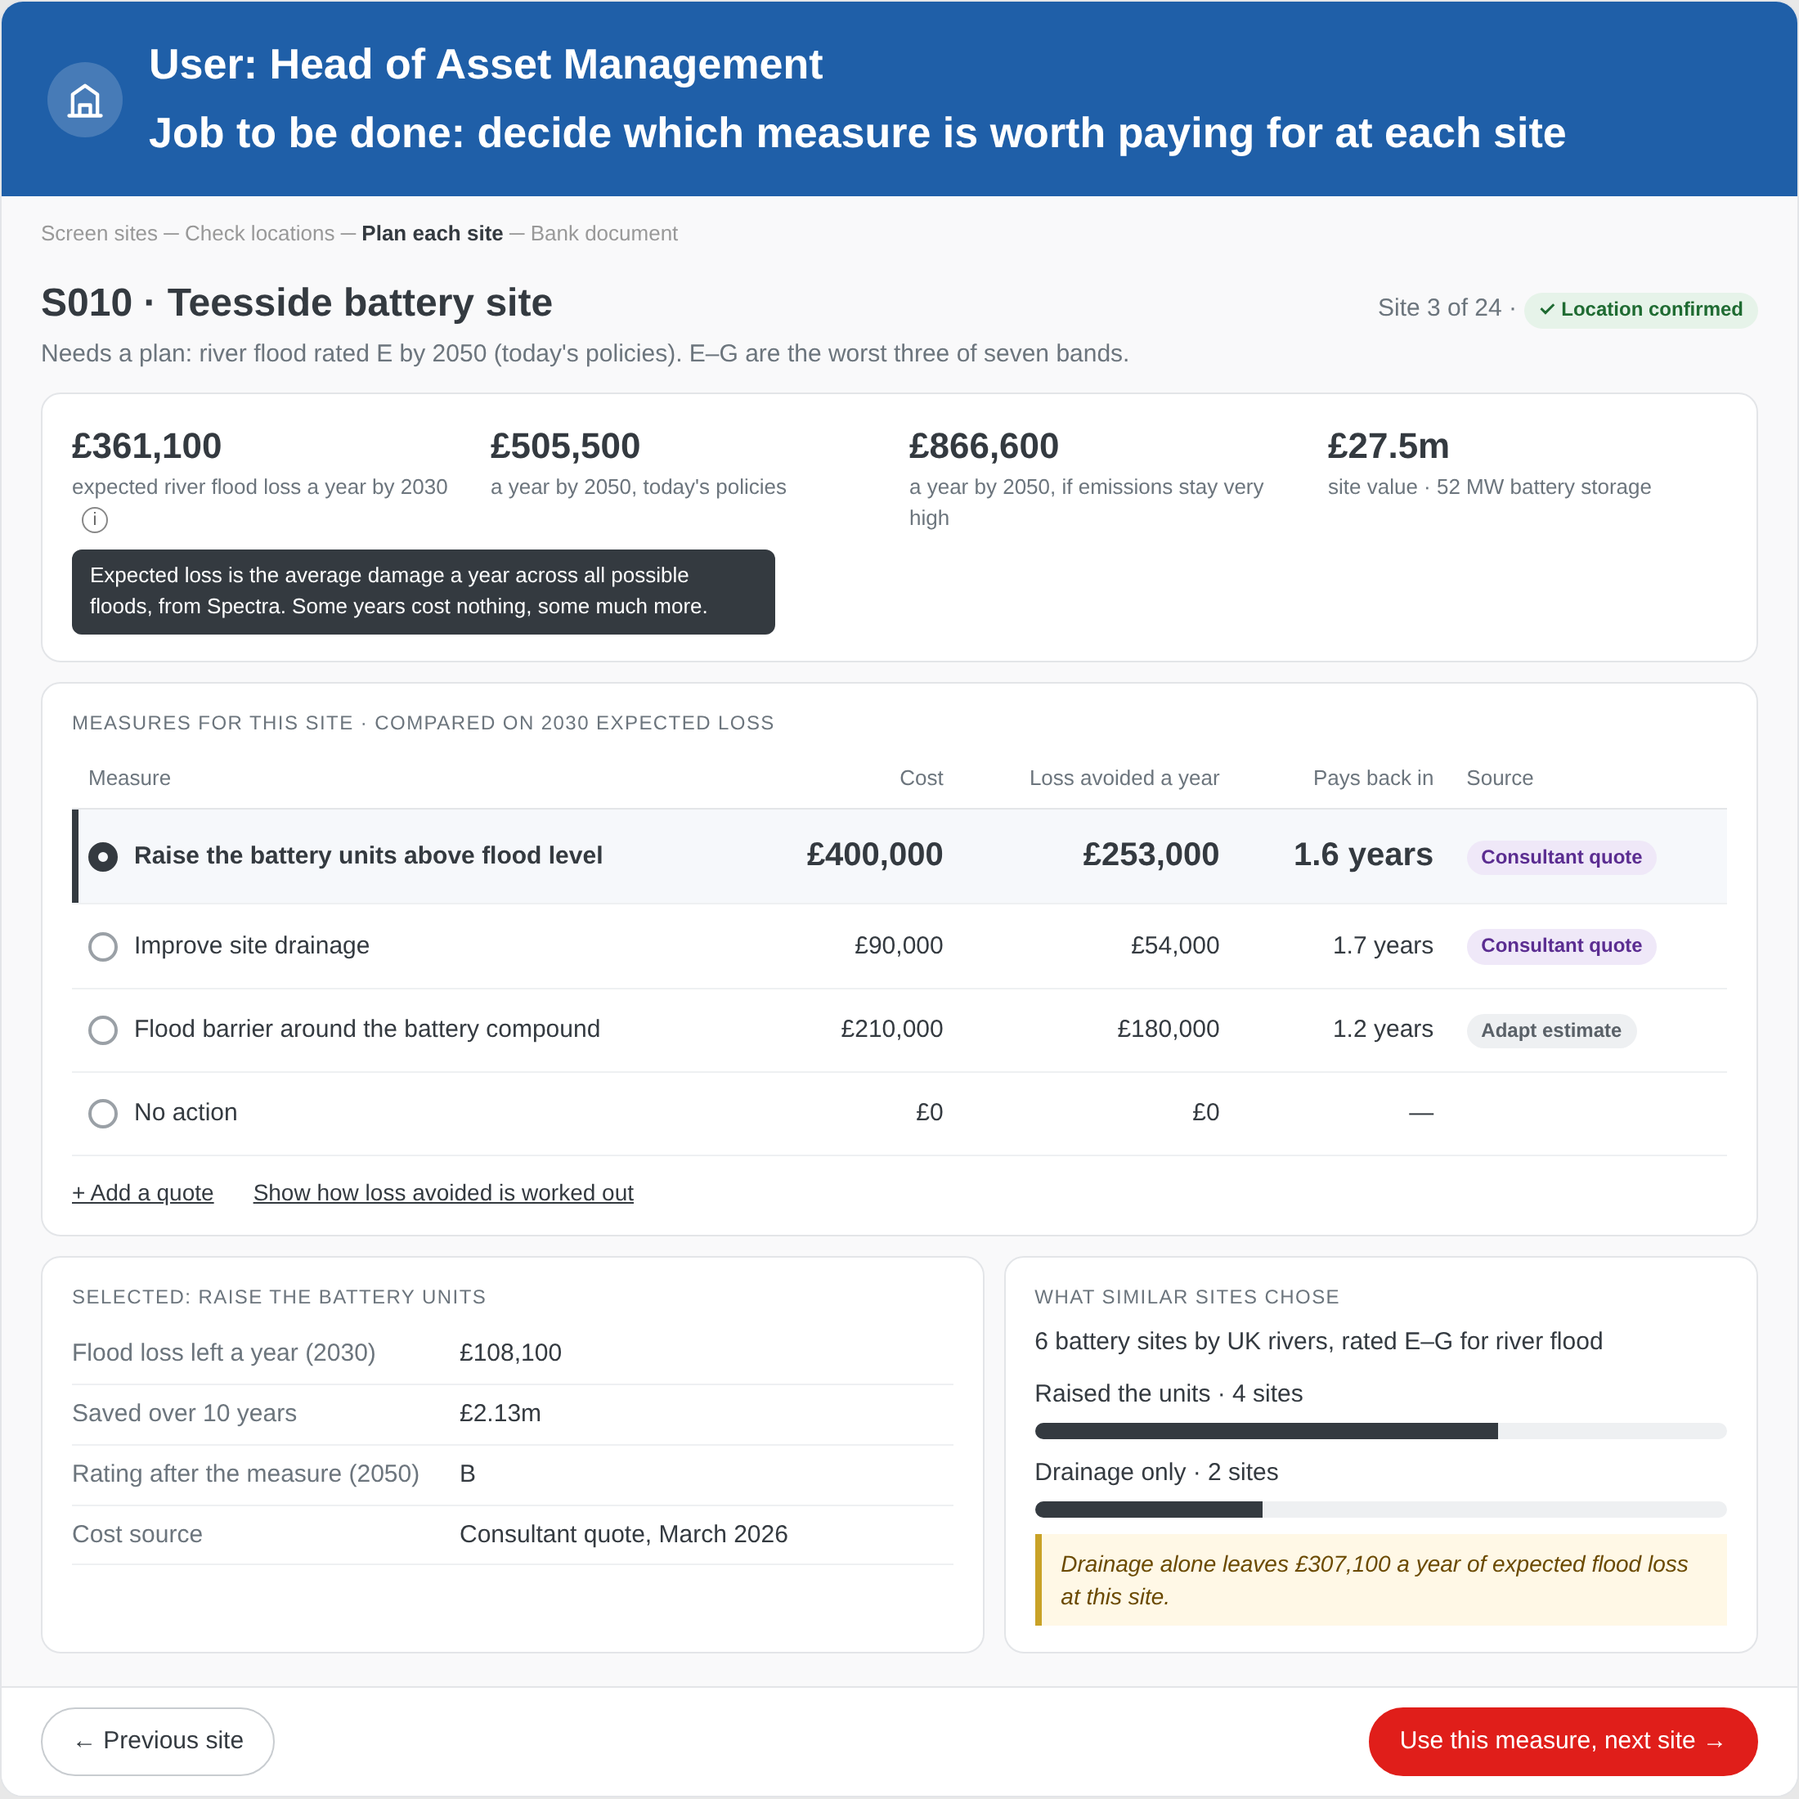
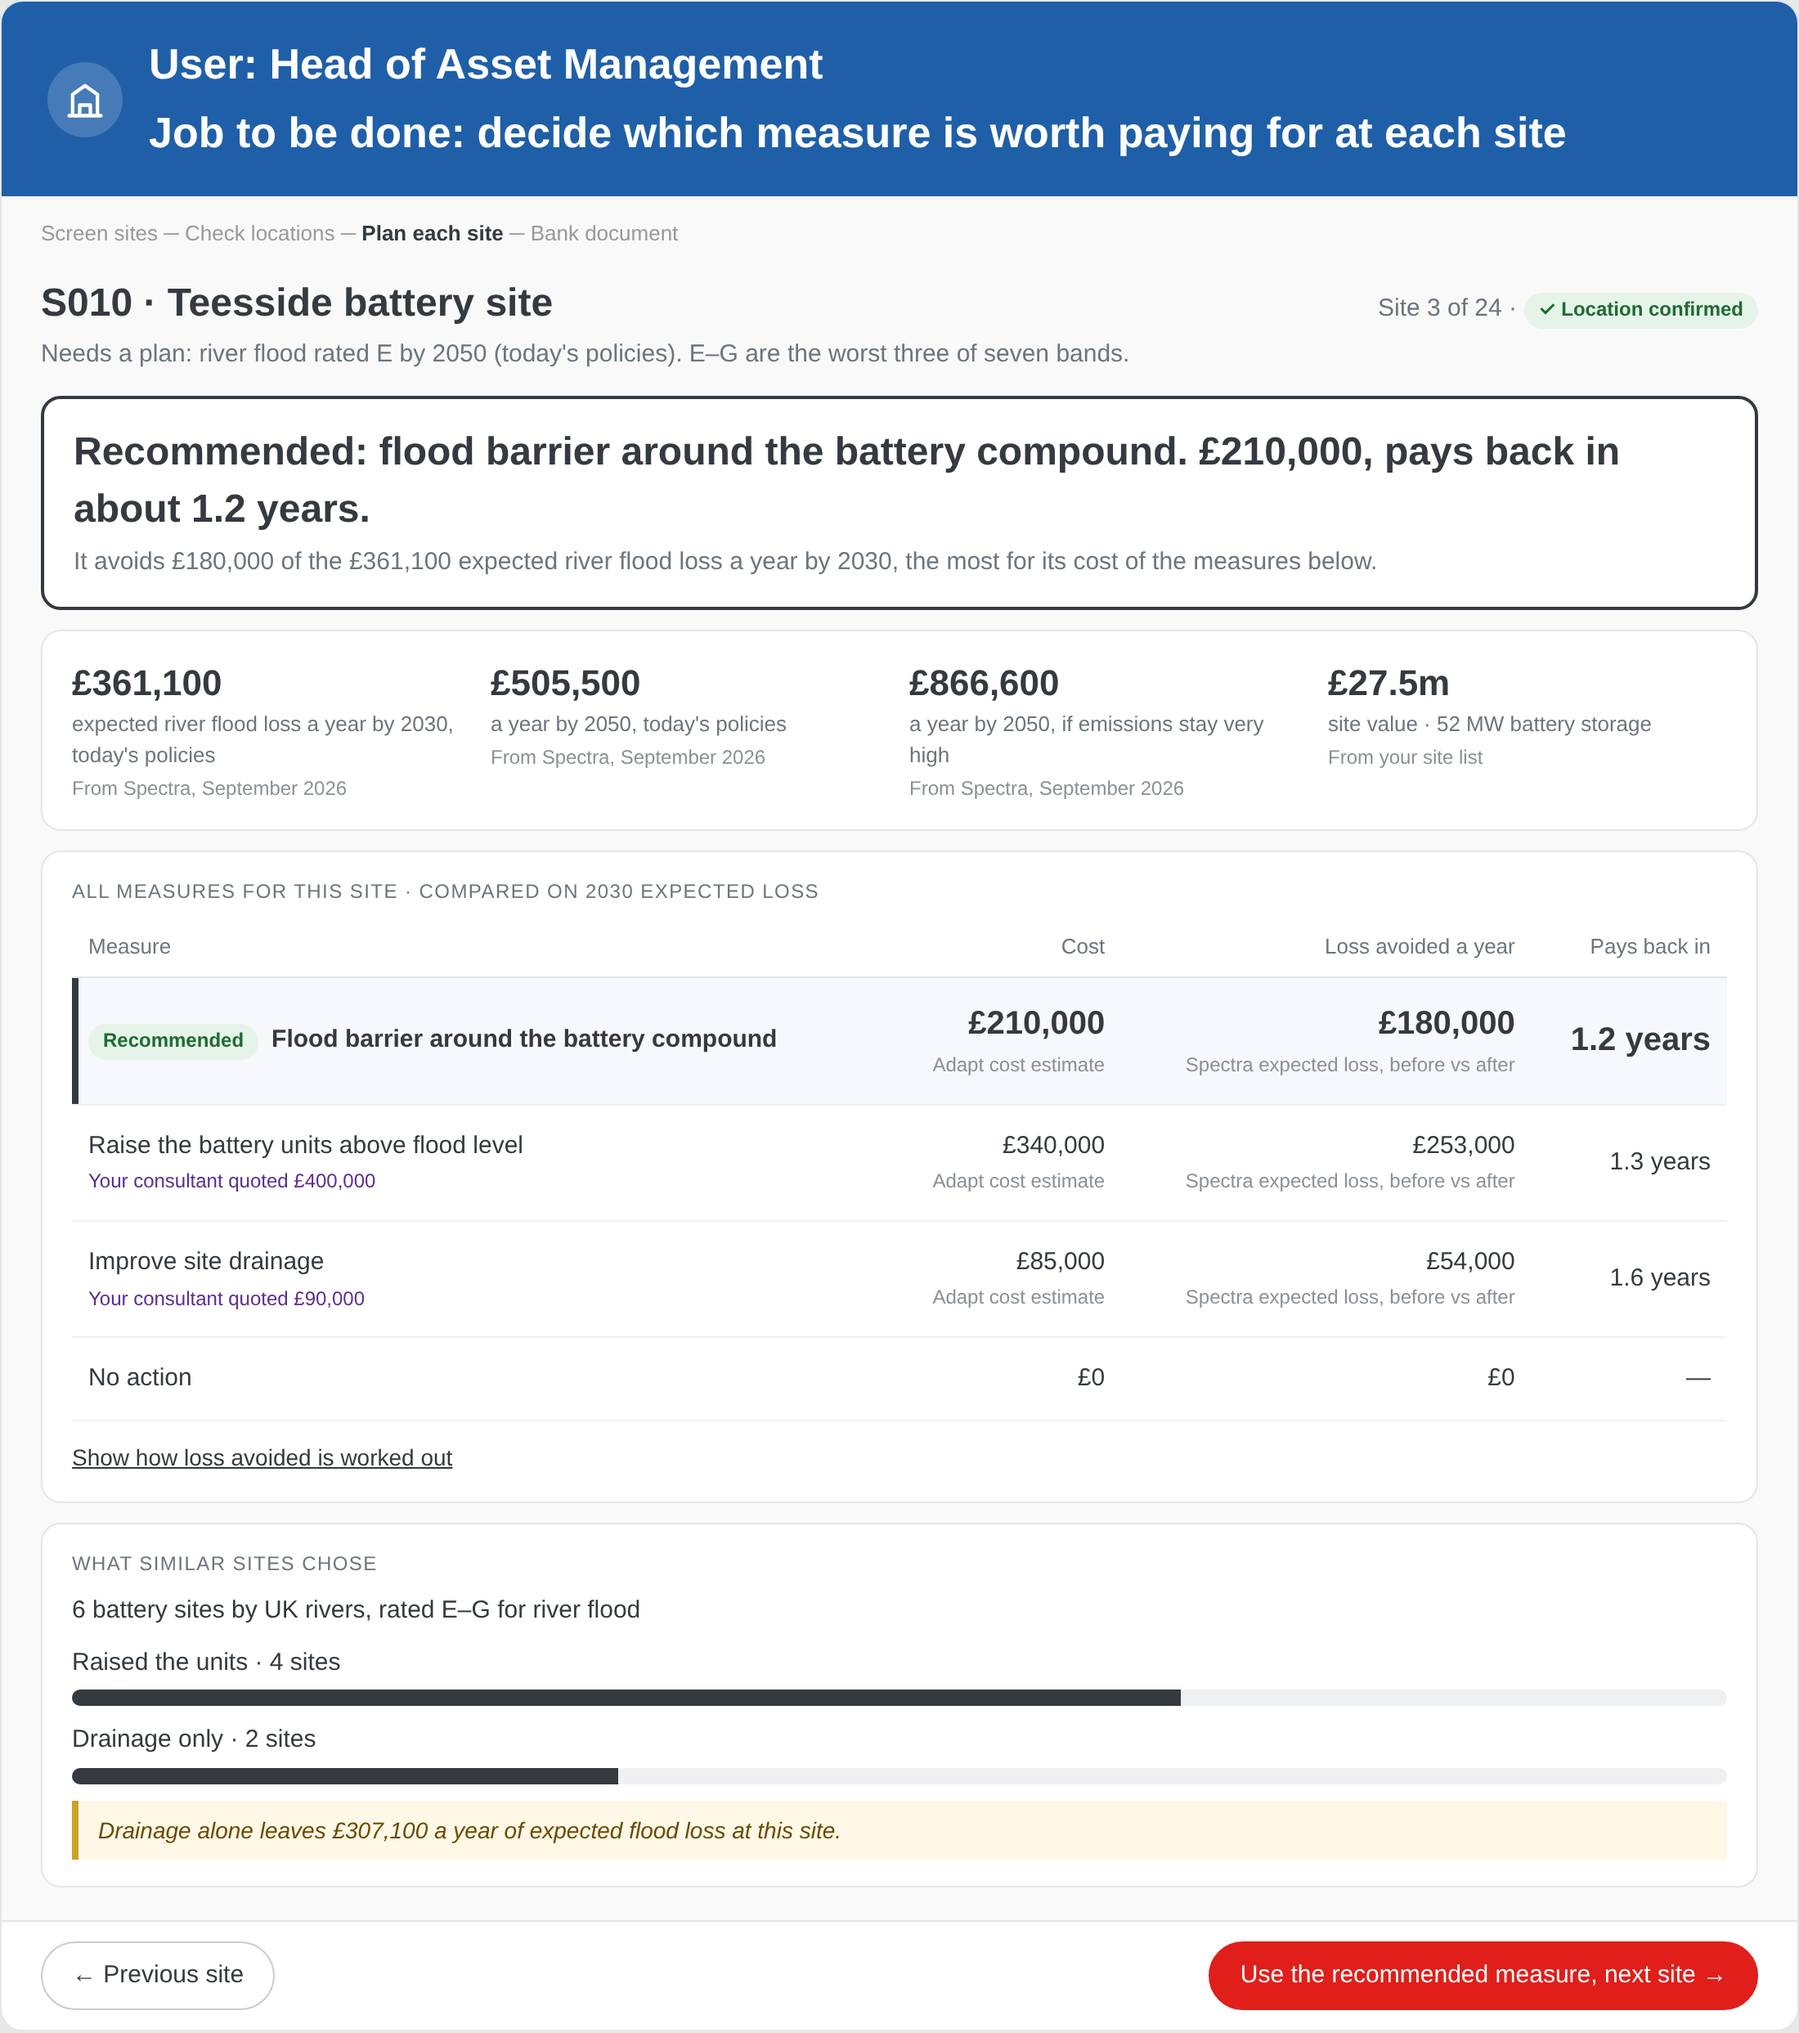
Run 3: plan screen leads with the recommendation, one list, a source beside every number
Claude-Session: https://claude.ai/code/session_016JoguXTxkWcj5knaYbAtMZ

diff --git a/runs/run-3/design/solution-design.html b/runs/run-3/design/solution-design.html
@@ -29,6 +29,13 @@ tr.sel .radio{border:6px solid #343a40}
 .bar{height:10px;border-radius:5px;background:#eef0f2;overflow:hidden;margin-top:6px}.bar i{display:block;height:100%;background:#343a40}
 .foot{display:flex;justify-content:space-between;align-items:center;padding:12px 24px;background:#fff;border-top:1px solid #e3e5e8}
 .btn{display:inline-block;padding:9px 18px;border:1px solid #c8ccd0;background:#fff;border-radius:999px}.btn.p{background:#e01e1a;border-color:#e01e1a;color:#fff}
+.doc{background:#fff;border:1px solid #d9dce0;border-radius:6px;padding:28px 32px;box-shadow:0 2px 10px rgba(0,0,0,.05)}
+.doc h2{font-size:22px;margin:0 0 4px}.doc h3{font-size:15px;margin:22px 0 8px;text-transform:uppercase;letter-spacing:.05em;color:#6c757d;font-weight:600}
+.sum{display:grid;grid-template-columns:repeat(4,1fr);gap:12px;margin-top:16px}.sum div{border:1px solid #eef0f2;border-radius:10px;padding:12px}.sum .n{font-size:24px;font-weight:700}.sum .s{font-size:13px;color:#6c757d}
+.rule{border:1px solid #e3e5e8;border-radius:10px;padding:12px 14px;background:#f9f9fa}
+.warn{border-left:4px solid #c9a227;background:#fff8e6;color:#6b4a00;padding:10px 14px;font-size:14px;display:flex;justify-content:space-between;align-items:center}
+.small td,.small th{padding:9px 8px;font-size:14px}
+.src3{font-size:12px;color:#8a9097;font-weight:400;margin-top:2px}.bench{font-size:12px;color:#5b2d91;margin-top:3px}
 </style></head><body>
 
 <div class="screen" id="plan">
@@ -37,38 +44,74 @@ tr.sel .radio{border:6px solid #343a40}
 <div class="body">
  <div class="top"><div><h1>S010 · Teesside battery site</h1><div class="sub">Needs a plan: river flood rated E by 2050 (today's policies). E–G are the worst three of seven bands.</div></div><div class="sub">Site 3 of 24 · <span class="tag t-ok">✓ Location confirmed</span></div></div>
 
+ <div class="card" style="border:2px solid #343a40;margin-top:14px"><div style="font-size:24px;font-weight:700">Recommended: flood barrier around the battery compound. £210,000, pays back in about 1.2 years.</div>
+  <div class="sub" style="margin-top:4px">It avoids £180,000 of the £361,100 expected river flood loss a year by 2030, the most for its cost of the measures below.</div></div>
+
  <div class="card"><div class="facts">
-  <div class="fact"><div class="n">£361,100</div><div class="s">expected river flood loss a year by 2030<span class="i">i</span></div></div>
-  <div class="fact"><div class="n">£505,500</div><div class="s">a year by 2050, today's policies</div></div>
-  <div class="fact"><div class="n">£866,600</div><div class="s">a year by 2050, if emissions stay very high</div></div>
-  <div class="fact"><div class="n">£27.5m</div><div class="s">site value · 52 MW battery storage</div></div>
- </div>
- <div style="margin-top:10px;font-size:13px"><span class="tip" style="margin-left:0">Expected loss is the average damage a year across all possible floods, from Spectra. Some years cost nothing, some much more.</span></div></div>
+  <div class="fact"><div class="n">£361,100</div><div class="s">expected river flood loss a year by 2030, today's policies</div><div class="src3">From Spectra, September 2026</div></div>
+  <div class="fact"><div class="n">£505,500</div><div class="s">a year by 2050, today's policies</div><div class="src3">From Spectra, September 2026</div></div>
+  <div class="fact"><div class="n">£866,600</div><div class="s">a year by 2050, if emissions stay very high</div><div class="src3">From Spectra, September 2026</div></div>
+  <div class="fact"><div class="n">£27.5m</div><div class="s">site value · 52 MW battery storage</div><div class="src3">From your site list</div></div>
+ </div></div>
 
- <div class="card"><div class="lbl">Measures for this site · compared on 2030 expected loss</div>
+ <div class="card"><div class="lbl">All measures for this site · compared on 2030 expected loss</div>
  <table>
-  <tr><th>Measure</th><th class="r">Cost</th><th class="r">Loss avoided a year</th><th class="r">Pays back in</th><th>Source</th></tr>
-  <tr class="sel"><td><span class="radio"></span><b>Raise the battery units above flood level</b></td><td class="r big">£400,000</td><td class="r big">£253,000</td><td class="r big">1.6 years</td><td><span class="tag t-quote">Consultant quote</span></td></tr>
-  <tr><td><span class="radio"></span>Improve site drainage</td><td class="r">£90,000</td><td class="r">£54,000</td><td class="r">1.7 years</td><td><span class="tag t-quote">Consultant quote</span></td></tr>
-  <tr><td><span class="radio"></span>Flood barrier around the battery compound</td><td class="r">£210,000</td><td class="r">£180,000</td><td class="r">1.2 years</td><td><span class="tag t-adapt">Adapt estimate</span></td></tr>
-  <tr><td><span class="radio"></span>No action</td><td class="r">£0</td><td class="r">£0</td><td class="r">—</td><td></td></tr>
+  <tr><th>Measure</th><th class="r">Cost</th><th class="r">Loss avoided a year</th><th class="r">Pays back in</th></tr>
+  <tr class="sel"><td><span class="tag t-ok" style="margin-right:8px">Recommended</span><b>Flood barrier around the battery compound</b></td><td class="r"><span class="big">£210,000</span><div class="src3">Adapt cost estimate</div></td><td class="r"><span class="big">£180,000</span><div class="src3">Spectra expected loss, before vs after</div></td><td class="r big">1.2 years</td></tr>
+  <tr><td>Raise the battery units above flood level<div class="bench">Your consultant quoted £400,000</div></td><td class="r">£340,000<div class="src3">Adapt cost estimate</div></td><td class="r">£253,000<div class="src3">Spectra expected loss, before vs after</div></td><td class="r">1.3 years</td></tr>
+  <tr><td>Improve site drainage<div class="bench">Your consultant quoted £90,000</div></td><td class="r">£85,000<div class="src3">Adapt cost estimate</div></td><td class="r">£54,000<div class="src3">Spectra expected loss, before vs after</div></td><td class="r">1.6 years</td></tr>
+  <tr><td>No action</td><td class="r">£0</td><td class="r">£0</td><td class="r">—</td></tr>
  </table>
- <div style="margin-top:12px;display:flex;gap:24px"><span class="link">+ Add a quote</span><span class="link">Show how loss avoided is worked out</span></div>
+ <div style="margin-top:12px"><span class="link">Show how loss avoided is worked out</span></div>
  </div>
 
- <div class="cols">
-  <div class="card"><div class="lbl">Selected: raise the battery units</div><table class="kv">
-   <tr><td>Flood loss left a year (2030)</td><td>£108,100</td></tr>
-   <tr><td>Saved over 10 years</td><td>£2.13m</td></tr>
-   <tr><td>Rating after the measure (2050)</td><td>B</td></tr>
-   <tr><td>Cost source</td><td>Consultant quote, March 2026</td></tr></table></div>
-  <div class="card"><div class="lbl">What similar sites chose</div>
-   <div>6 battery sites by UK rivers, rated E–G for river flood</div>
-   <div style="margin-top:10px">Raised the units · 4 sites<div class="bar"><i style="width:67%"></i></div></div>
-   <div style="margin-top:10px">Drainage only · 2 sites<div class="bar"><i style="width:33%"></i></div></div>
-   <div class="note">Drainage alone leaves £307,100 a year of expected flood loss at this site.</div></div>
+ <div class="card"><div class="lbl">What similar sites chose</div>
+  <div>6 battery sites by UK rivers, rated E–G for river flood</div>
+  <div style="margin-top:10px">Raised the units · 4 sites<div class="bar"><i style="width:67%"></i></div></div>
+  <div style="margin-top:10px">Drainage only · 2 sites<div class="bar"><i style="width:33%"></i></div></div>
+  <div class="note">Drainage alone leaves £307,100 a year of expected flood loss at this site.</div></div>
+</div>
+<div class="foot"><span class="btn">← Previous site</span><span class="btn p">Use the recommended measure, next site →</span></div>
+</div>
+<div class="screen" id="doc">
+<div class="hdr2"><span class="ic"><svg width="26" height="26" viewBox="0 0 24 24" fill="none" stroke="#fff" stroke-width="2" stroke-linecap="round" stroke-linejoin="round"><path d="M3 21h18M5 21V9l7-5 7 5v12M9 21v-6h6v6"/></svg></span><div><div class="u">User: Head of Asset Management</div><div class="j">Job to be done: show the bank climate risk is managed at every site</div></div></div>
+<div class="steps">Screen sites ─ Check locations ─ Plan each site ─ <span class="on">Bank document</span></div>
+<div class="body">
+ <div class="top"><div><h1>Your document for the bank's credit team</h1><div class="sub">This is what the bank receives. Every number comes from Spectra results dated September 2026.</div></div></div>
+ <div class="warn" style="margin-top:12px"><span>2 of the 24 sites still need a measure chosen: S045 Murcia solar, S055 Murcia solar.</span><span class="link" style="font-style:normal">Choose measures</span></div>
+
+ <div class="doc" style="margin-top:12px">
+  <h2>Northwind Renewables · Climate resilience across 62 sites</h2><div class="sub">Prepared for the Facility A refinancing · November 2026 · Updated yearly</div>
+  <div class="sum">
+   <div><div class="n">62</div><div class="s">sites screened with one test</div></div>
+   <div><div class="n">38</div><div class="s">need no action</div></div>
+   <div><div class="n">24</div><div class="s">have a plan</div></div>
+   <div><div class="n">£3.2m → £1.4m</div><div class="s">expected loss a year across the 24 sites, 2030, before and after the plans</div></div>
+  </div>
+
+  <h3>The test applied to every site</h3>
+  <div class="rule">A site needs a plan if any hazard is rated E, F or G (the worst three of Spectra's seven bands) in 2050, under either today's policies or very high emissions. Hazards: river flood, surface water flood, extreme heat, wildfire, windstorm.</div>
+
+  <h3>The 24 sites with a plan</h3>
+  <table class="small">
+   <tr><th>Site</th><th>Rated E–G for</th><th>Measure</th><th class="r">Cost</th><th class="r">Expected loss a year, 2030</th><th class="r">Pays back in</th></tr>
+   <tr><td>S010 · Teesside battery</td><td>River flood</td><td>Raise the battery units</td><td class="r">£400,000</td><td class="r">£361,100 → £108,100</td><td class="r">1.6 years</td></tr>
+   <tr><td>S017 · Teesside battery</td><td>River flood</td><td>Flood barrier around the compound</td><td class="r">£260,000</td><td class="r">£520,600 → £150,000</td><td class="r">0.7 years</td></tr>
+   <tr><td>S021 · Humberside battery</td><td>River flood</td><td>Raise the battery units</td><td class="r">£450,000</td><td class="r">£621,000 → £190,000</td><td class="r">1.0 year</td></tr>
+   <tr><td>S043 · Andalusia solar</td><td>Extreme heat (very high emissions)</td><td>Heat-tolerant inverters</td><td class="r">£320,000</td><td class="r">£203,600 → £95,000</td><td class="r">2.9 years</td></tr>
+   <tr><td>S045 · Murcia solar</td><td>Extreme heat (very high emissions)</td><td style="color:#8a5a00;font-style:italic">Not chosen yet</td><td class="r">—</td><td class="r">£207,000</td><td class="r">—</td></tr>
+  </table>
+  <div style="margin-top:10px;display:flex;gap:24px"><span class="link">Show all 24 sites</span><span class="link">Show the 38 sites that need no action, with each one's worst rating</span></div>
+
+  <h3>Method and sources</h3>
+  <table class="kv">
+   <tr><td>Climate ratings and expected loss</td><td>Spectra Infrastructure Screener, September 2026</td></tr>
+   <tr><td>Scenarios</td><td>Today's policies (SSP2-4.5) and very high emissions (SSP5-8.5)</td></tr>
+   <tr><td>Measure costs</td><td>Consultant quotes where Northwind has them, otherwise Adapt estimates; marked per site</td></tr>
+   <tr><td>Site locations</td><td>Confirmed by Northwind for all 24 sites with a plan</td></tr>
+  </table>
  </div>
 </div>
-<div class="foot"><span class="btn">← Previous site</span><span class="btn p">Use this measure, next site →</span></div>
+<div class="foot"><span class="btn">← Back to plans</span><span><span class="btn">Download PDF</span> &nbsp; <span class="btn p">Send to the bank's credit team</span></span></div>
 </div>
 </body></html>
